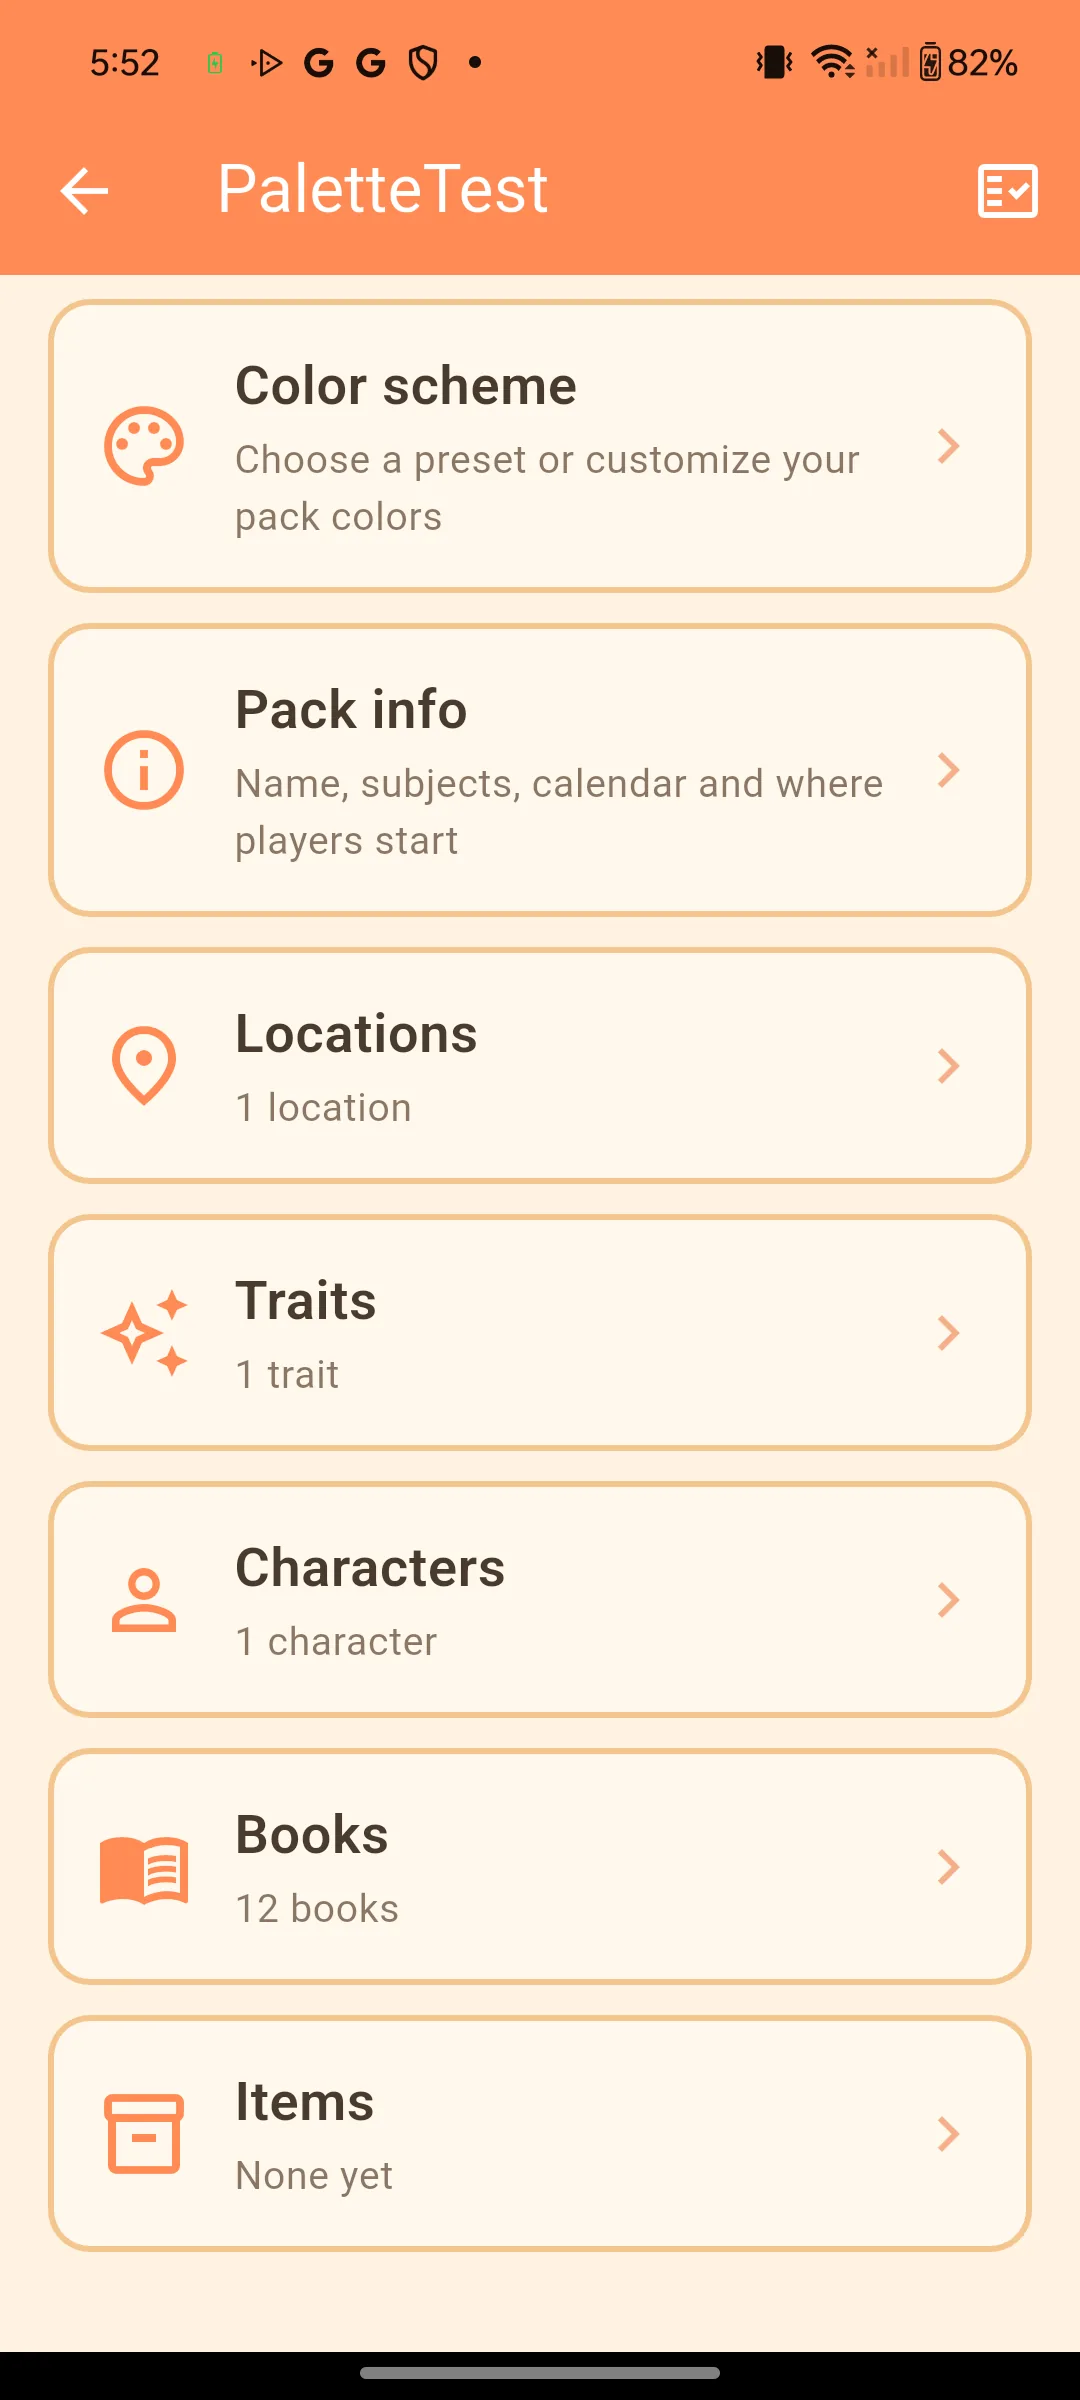
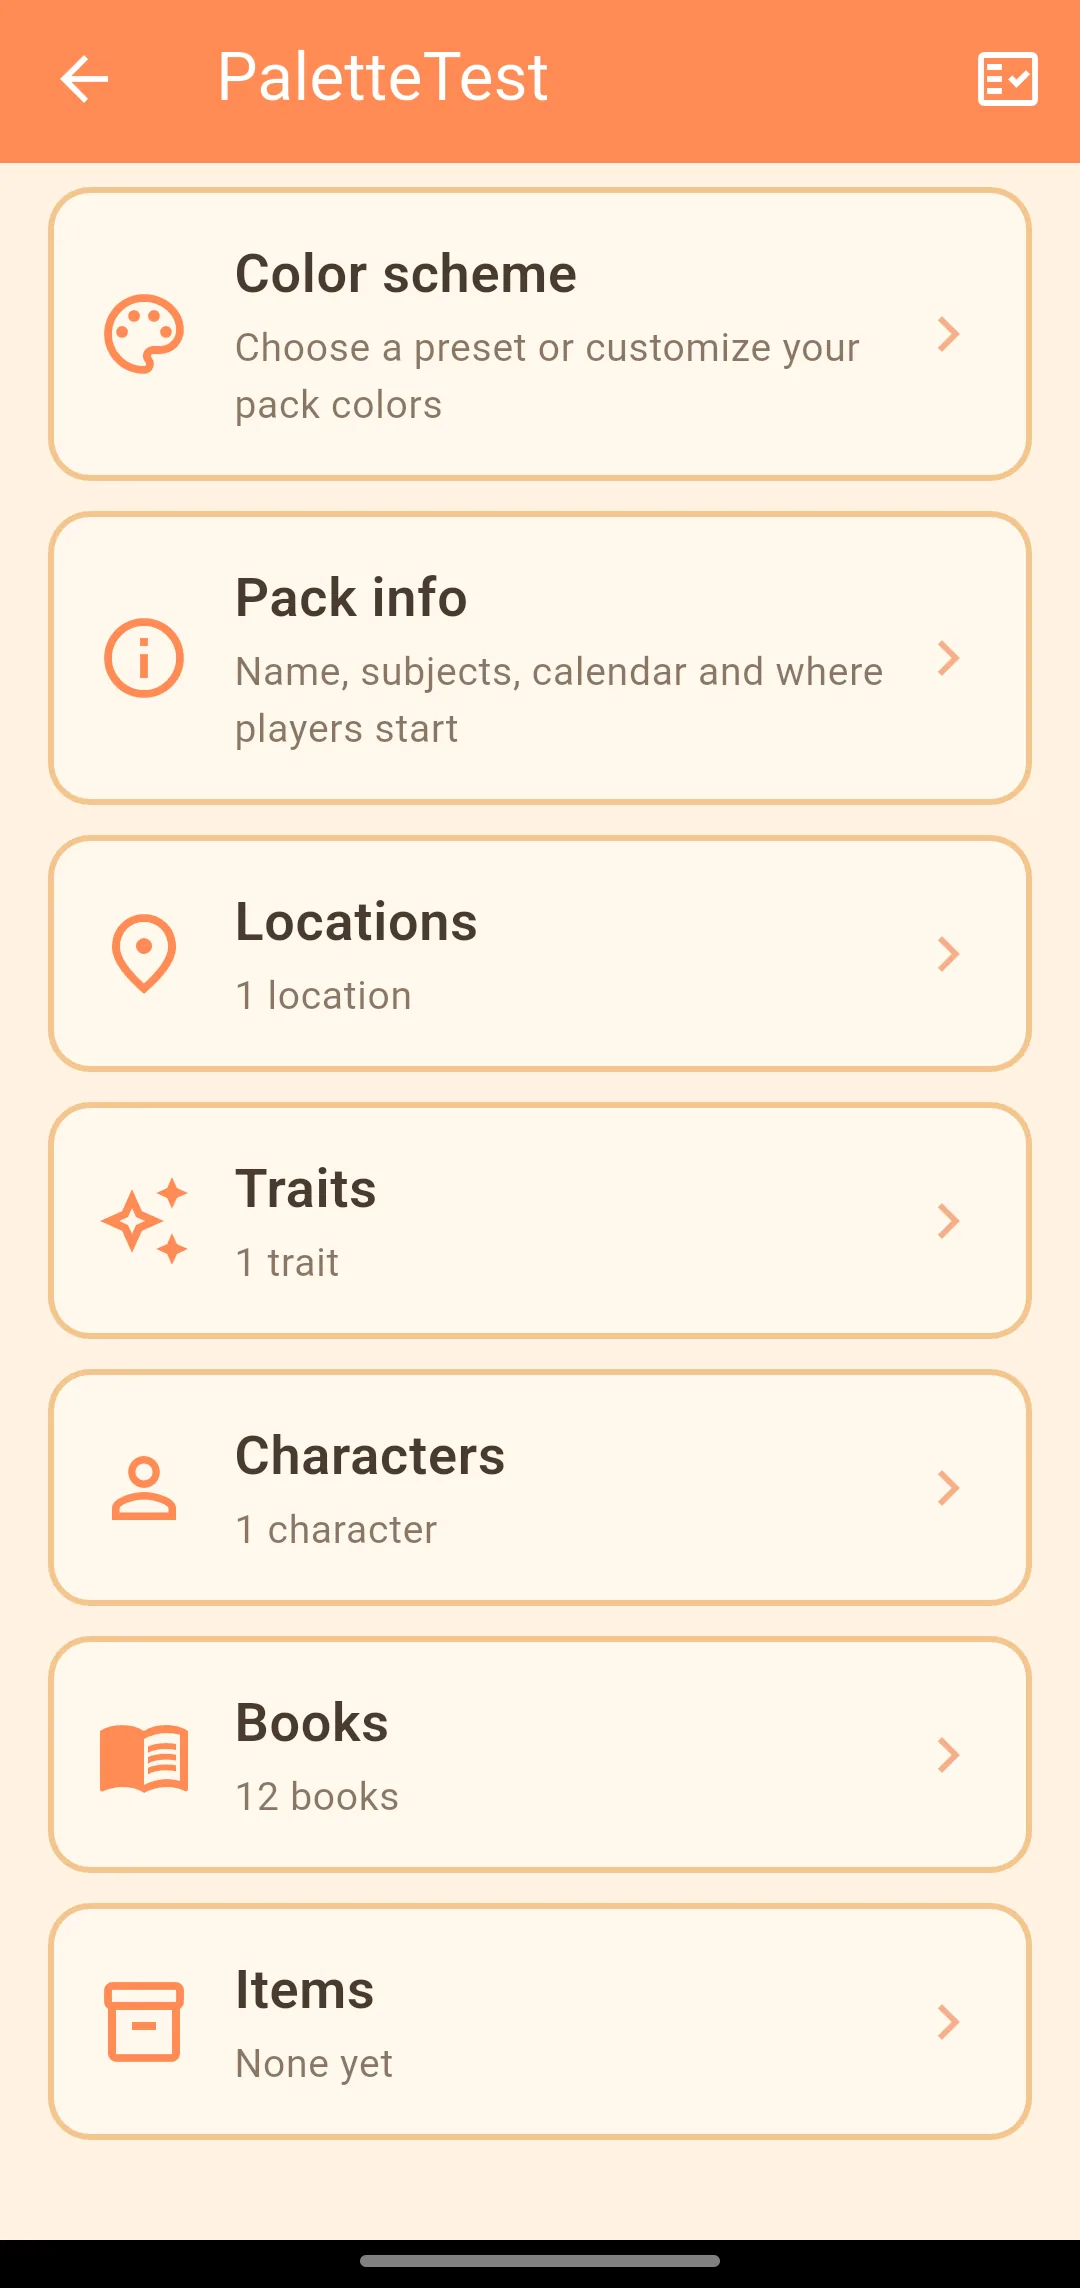
Crop the phone status bar off the Pack Studio editor screenshot

diff --git a/projects.js b/projects.js
@@ -36,7 +36,7 @@ const projects = [
     gallery: [
       ['d31-gameplay.webp', 'd31: schedule and activity choices', 466, 960],
       ['pack-studio-screenshot.webp', 'Pack Studio: create or open a content pack', 457, 960],
-      ['pack-studio-editor.webp', 'Pack Studio: edit locations, traits, characters, books and items', 1080, 2400]
+      ['pack-studio-editor.webp', 'Pack Studio: edit locations, traits, characters, books and items', 1080, 2288]
     ],
     demo: 'd31',
     links: [['d31 on GitHub', 'https://github.com/rishabh-mohan/d31'], ['Pack Studio on GitHub', 'https://github.com/rishabh-mohan/pack-studio']]
